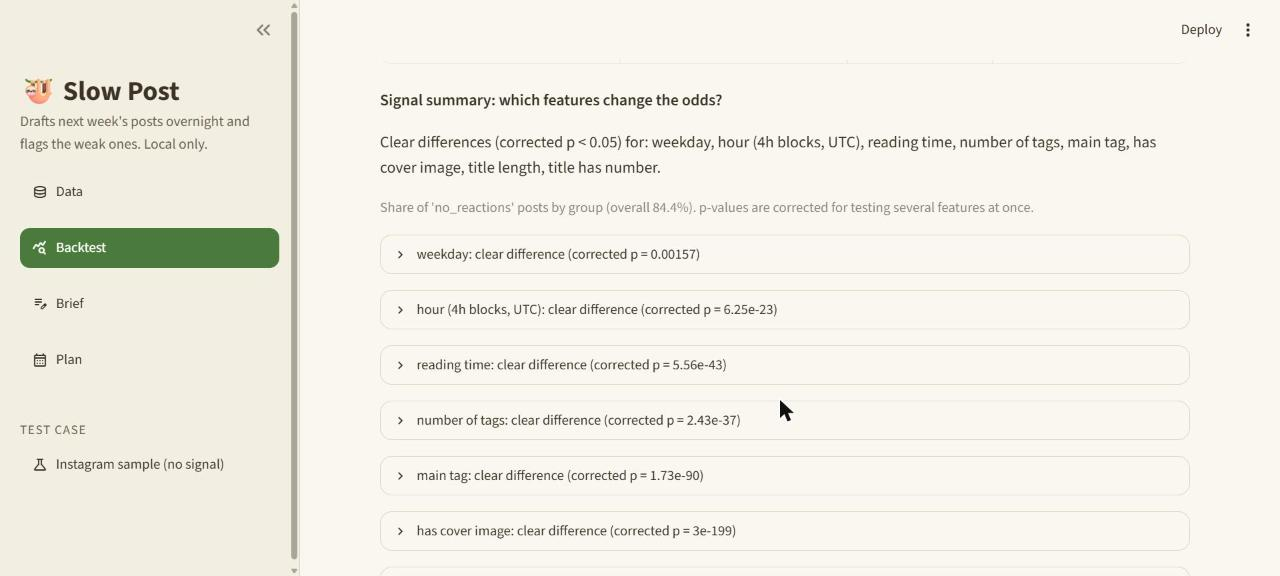
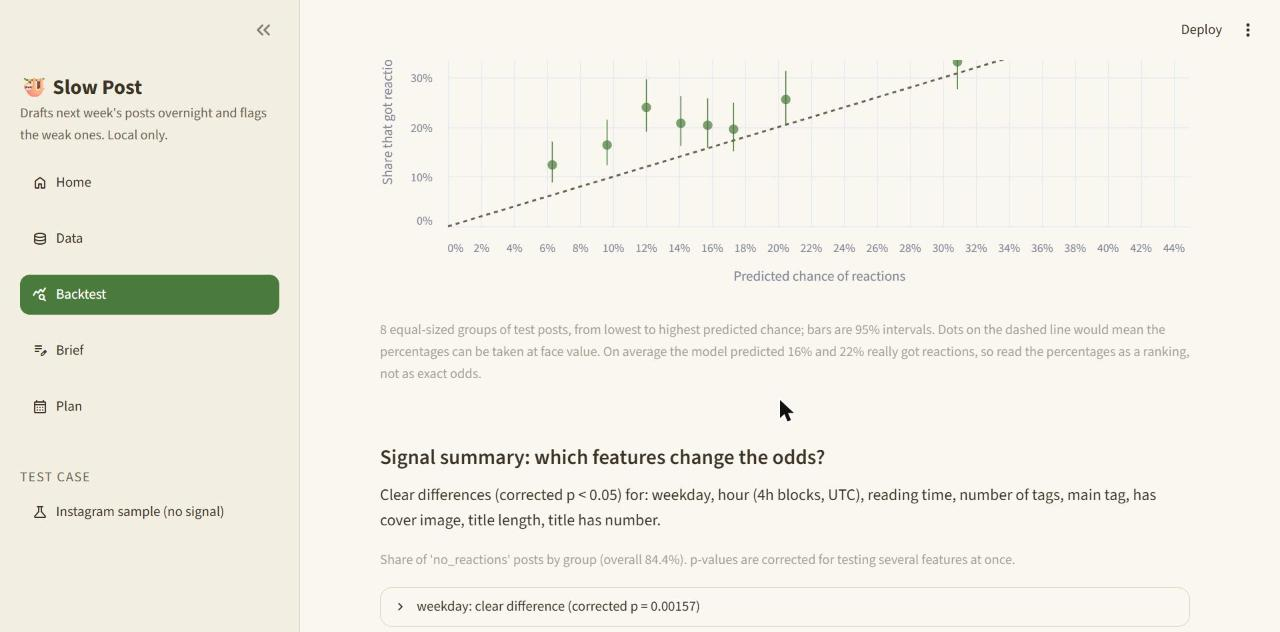
Final round: scroll-to-top fix verified on every page, GIF re-recorded, signal-summary screenshot, PRD and Tech Design notes

diff --git a/app.py b/app.py
@@ -714,12 +714,16 @@ def go(page: str) -> None:
 
 
 def scroll_to_top() -> None:
+    """Open a new page at its title. The script differs on every call (a counter), because an
+    identical script would not be run again by the browser, and it retries for a second while
+    the new page finishes drawing."""
     if st.session_state.pop("scroll_top", False):
-        # Scroll again after the new page has drawn, because it is taller than the old scroll
-        # position allows for a moment.
-        components.html("<script>const go = () => { const m = window.parent.document.querySelector("
-                        "'[data-testid=\"stMain\"]'); if (m) m.scrollTo(0, 0); };"
-                        "go(); setTimeout(go, 150); setTimeout(go, 600);</script>", height=0)
+        st.session_state.scroll_count = st.session_state.get("scroll_count", 0) + 1
+        components.html(
+            "<script>/* " + str(st.session_state.scroll_count) + " */"
+            "const go = () => { const m = window.parent.document.querySelector("
+            "'[data-testid=\"stMain\"]'); if (m) m.scrollTo(0, 0); };"
+            "go(); [100, 300, 700, 1200].forEach((t) => setTimeout(go, t));</script>", height=0)
 
 
 def sidebar_nav() -> str:

diff --git a/MEMORY.md b/MEMORY.md
@@ -4,7 +4,7 @@ Update this after major decisions, completed phases, or bugs that future agents 
 
 ## Current State
 
-- Current task: Part A and Part B done. M6 (article, DEV post, due Sun 25 Oct 11:59 PM PDT) is next. The walkthrough GIF is still the old design.
+- Current task: Part A and Part B done. M6 (article, DEV post, due Sun 25 Oct 11:59 PM PDT) is next. The walkthrough GIF was re-recorded with the final UI (22 frames, over the saved normal run). CODE IS FROZEN: only bug fixes the user asks for.
 - Current phase: M1 done. M2 (drafting) is next.
 - Next step: M2 drafting with Gemma per source profile. README credits done (Kundan Sagar Bedmutha, Kaggle link; DEV public API).
 - Blocked by: none.
@@ -49,9 +49,10 @@ Checked 2026-10-23 by reading `data/Instagram_Analytics.csv` (setup only, no app
   - M3 real run (2026-10-23, `run_overnight.py`, n=5, with facts): 621 s total = drafting 403 s (longer prompt with 200 allowed tags, 2 title regenerations), backtest fit+predict 112 s, scoring + what-ifs 31 s, rewrite 39 s, rescoring 36 s. Cutoff 0.141, Strong threshold (top 20% of test) 0.200. Test-window evidence: Strong group 29.8% got reactions (1.38x), Okay 21.1%, Weak 18.1%, overall 21.6%. Labels of the 5 drafts: Strong 2, Okay 2, Weak 1. Rewrite of the weak draft (adding a '?') rescored 14.0% -> 22.1% (Strong). Caveat: the question-mark effect is the model's belief; the signal summary found title_has_question not clear after correction (p 0.036 raw), so the reason text overstates evidence. Free RAM dropped to 1.79 GB during Gemma rewrite.
   - M4 (2026-10-23): `app.py` has 5 pages (Data, Backtest, Brief, Plan, Instagram sample). Heavy work runs in subprocesses (fetch, backtest `--save` -> `data/backtests/*.json`, overnight run with `data/runs/_current.json` pid file), so refresh does not stop a run. What-if panel has two groups ("Backed by the data" = clear after correction; "The model's guess" greyed). Rewrite hint comes only from backed-by-data title changes (unit-tested); in the real UI run the one Weak draft was skipped with the reason shown because the title-question change was not backed. Edits are validated and features recomputed by code but NOT rescored (UI says so); plan.csv flags edited rows. Chrome check: missing CSV, Ollama down (test instance on port 8502 with SLOWPOST_DEV_CSV pointing nowhere and OLLAMA_HOST=http://127.0.0.1:1), empty brief, full run (559 s), edit, CSV download all OK. Screenshots in `docs/screenshots/` (no DEV titles or authors). Real run: labels Strong 3, Okay 1, Weak 1; supported features: has_cover_image, hour, main_tag, reading_time_minutes, title_has_number, weekday.
   - M5 (2026-10-23): second full UI run 621 s (drafting 470 s, backtest 113 s, scoring 37 s); no stale widgets on the Plan page while running. Slow real-Gemma injection test passed (28.8 s): valid draft, no poem, but the topic was unrelated to the brief. Near-duplicate titles now get up to two regenerations (second with a clearly different angle) then a flag. Screenshots refreshed (13, `docs/screenshots/`), GIF `docs/slowpost-walkthrough.gif` (19 frames, recorded over saved results, not live computation). README written; TabPFN-licence wording hedged (non-commercial weights; read Prior Labs terms). Metric delta arrow now shows only when the balanced-accuracy interval excludes zero. Chrome screenshot tool timed out right after scrolls; retry works.
-  - UI polish (2026-10-24): presentation only. `slowpost/ui.py` holds PALETTE (single source; config.toml repeats the theme colours, a test keeps them in sync), CSS, badges (glyph + word), run-progress parser. Sidebar is custom nav buttons (state `st.session_state.nav`; tests set it instead of the old radio), Instagram sample set apart. Backtest opens with a big lift headline read from the saved result. Plan = 3-column week cards, compact legend, rewrite before/after side by side below the grid, skipped-rewrite reason on the card. Run screen = steps ticking off + elapsed + collapsed Details log (no per-draft count: the log does not report it). `SLOWPOST_RUNS` env overrides the runs folder (used for screenshots of older runs). Full real UI run 506 s (drafting 294, backtest 160, scoring 50). 16 screenshots in docs/screenshots/. The walkthrough GIF is still the old design.
+  - UI polish (2026-10-24): presentation only. `slowpost/ui.py` holds PALETTE (single source; config.toml repeats the theme colours, a test keeps them in sync), CSS, badges (glyph + word), run-progress parser. Sidebar is custom nav buttons (state `st.session_state.nav`; tests set it instead of the old radio), Instagram sample set apart. Backtest opens with a big lift headline read from the saved result. Plan = 3-column week cards, compact legend, rewrite before/after side by side below the grid, skipped-rewrite reason on the card. Run screen = steps ticking off + elapsed + collapsed Details log (no per-draft count: the log does not report it). `SLOWPOST_RUNS` env overrides the runs folder (used for screenshots of older runs). Full real UI run 506 s (drafting 294, backtest 160, scoring 50). 16 screenshots in docs/screenshots/. The walkthrough GIF was re-recorded with the final UI (22 frames, over the saved normal run). CODE IS FROZEN: only bug fixes the user asks for.
   - Part A hierarchy pass (2026-10-24): Home page first (default), four text levels in ui.py (title, section, body, help), metric boxes, one filled primary button per page with quieter secondaries, per-draft `Drafted i/n` log line shown as `Drafting with Gemma i/n`, Plan grid is 2 columns, new pages scroll to top. Screenshots 00, 03, 04, 09 retaken; the others and the GIF are still from the previous pass. Part B (B1-B7) waits for the user's `continue`.
   - Part B (2026-10-24, user asked B1-B7): B1 run verdict ("Nothing stands out this week. Go back to sleep." when no Strong; saved in drafts.json and every plan.csv row). B2 baselines on the identical split: logistic regression BA 0.555 (0.530-0.579), AUC 0.573 (0.546-0.602), top-10% lift 1.53x; gradient boosting BA 0.523, AUC 0.529, lift 1.35x; TabPFN BA 0.544, AUC 0.588, lift 1.67x; majority BA 0.500. TabPFN minus logistic AUC +0.014 (paired 95% CI -0.007 to +0.035): not a clear win; minus gradient boosting +0.059 (+0.034 to +0.084): clear win. Random 80/20 split TabPFN BA 0.610, AUC 0.647, lift 1.96x (comparison only). Instagram: all models near chance. B3 revision pass: every non-Strong draft revised once, TabPFN rescoring on a refit model, kept only if strictly higher; item["original"] holds the before version. B4 schedule: `slowpost/schedule.py`, job JSON in data/scheduled/, `run_overnight.py --job`; the app only creates a task after the box is ticked and the button clicked. NO task has been created. B5: calibration chart (8 bins, model predicts 16% on average, 22% really got reactions), "Okay" -> "Too close to call", non-causal what-if wording, "backed by the data" now also needs the history to agree with the model (found when the first wording showed python tag backed although 12% vs 14%), controlled checks (cover gap holds in all 4 reading-time bands: MH OR 2.12 vs crude 2.21; reading-time gap holds with and without a cover: MH OR 1.25 vs 1.39). B6 `docs/analysis-log.md`. B7 README sections. Real runs: normal brief 668 s (drafting 254, backtest 112, scoring 38, revising 219, rescoring 44): 5 drafts, 2 Strong before, 3 revisions all kept, 1 changed band, 3 Strong after. First weak brief (n=3, "a very long read") still gave 1 Strong draft (Thursday 12:00 slot), 0 of 2 revisions kept. Second weak brief (n=2, "a 25-minute read") gave "Nothing stands out this week. Go back to sleep." (0 of 2 revisions kept).
+  - Final round (2026-10-24): scheduled-task test passed end to end (task SlowPost-20261024-1240 created for 12:40, started 12:40:02, run folder 20261024-124002 with backtest.json, drafts.json, plan.csv, log.txt, Last Result 0, Plan page opened it as "Good morning", task then deleted). Scroll-to-top bug found and fixed (an identical script is not re-run by the browser; the script now has a counter and retries for 1.2 s); scrollTop was 0 after every nav button, including the Home Start button. GIF re-recorded. PRD and TechDesign have a "Changes since this document" note.
   - Instagram sample (account 15): 1,000 train; newest week too small so the newest 20% (320 posts) is the test window. Balanced accuracy 0.379 vs 0.333 (gap +0.045, CI -0.001 to +0.095); AUC 0.526 (0.479-0.573). Verdict: no better than baseline. No feature has a corrected p below 0.05 (smallest 0.12, hashtags).
   - Training is a random seeded sample from all older posts (user decision), not the 1,000 just before the test window.
 - Open: does the Kaggle data have real patterns (it may be simulated)? The signal check says little or none.

diff --git a/docs/TechDesign-SlowPost-MVP.md b/docs/TechDesign-SlowPost-MVP.md
@@ -1,5 +1,7 @@
 # Technical Design Document: Slow Post MVP
 
+> **Changes since this document.** This document was written before the build and is kept as the original plan. The app has changed since: DEV posts are the demo source and the Instagram sample is a no-signal test case; the backtest uses a newest-7-days test window and a probability cutoff; drafts get one Gemma revision (kept only if TabPFN scores it higher) instead of a weak-only rewrite; there is a run verdict, baseline models, calibration, controlled checks, and optional Task Scheduler overnight mode. Where this document and the code disagree, the code wins. Every analysis choice and when it was made is in [`analysis-log.md`](analysis-log.md); the running project history is in [`MEMORY.md`](../MEMORY.md).
+
 ## Overview
 
 Slow Post is a local Python app. It reads a past-posts file for a chosen source (real DEV posts fetched from DEV's public API, or the Kaggle Instagram CSV), runs a time-ordered backtest with TabPFN, has a local Gemma model (via Ollama) draft next week's 7 posts, scores each draft with TabPFN, rewrites weak drafts once, and shows a week calendar with a CSV download. Everything runs on one Windows laptop; no data leaves it.

diff --git a/docs/PRD-SlowPost-MVP.md b/docs/PRD-SlowPost-MVP.md
@@ -1,5 +1,7 @@
 # Product Requirements Document: Slow Post MVP
 
+> **Changes since this document.** This document was written before the build and is kept as the original plan. The app has changed since: DEV posts are the demo source and the Instagram sample is a no-signal test case; the backtest uses a newest-7-days test window and a probability cutoff; drafts get one Gemma revision (kept only if TabPFN scores it higher) instead of a weak-only rewrite; there is a run verdict, baseline models, calibration, controlled checks, and optional Task Scheduler overnight mode. Where this document and the code disagree, the code wins. Every analysis choice and when it was made is in [`analysis-log.md`](analysis-log.md); the running project history is in [`MEMORY.md`](../MEMORY.md).
+
 ## Overview
 
 **Product Name:** Slow Post
